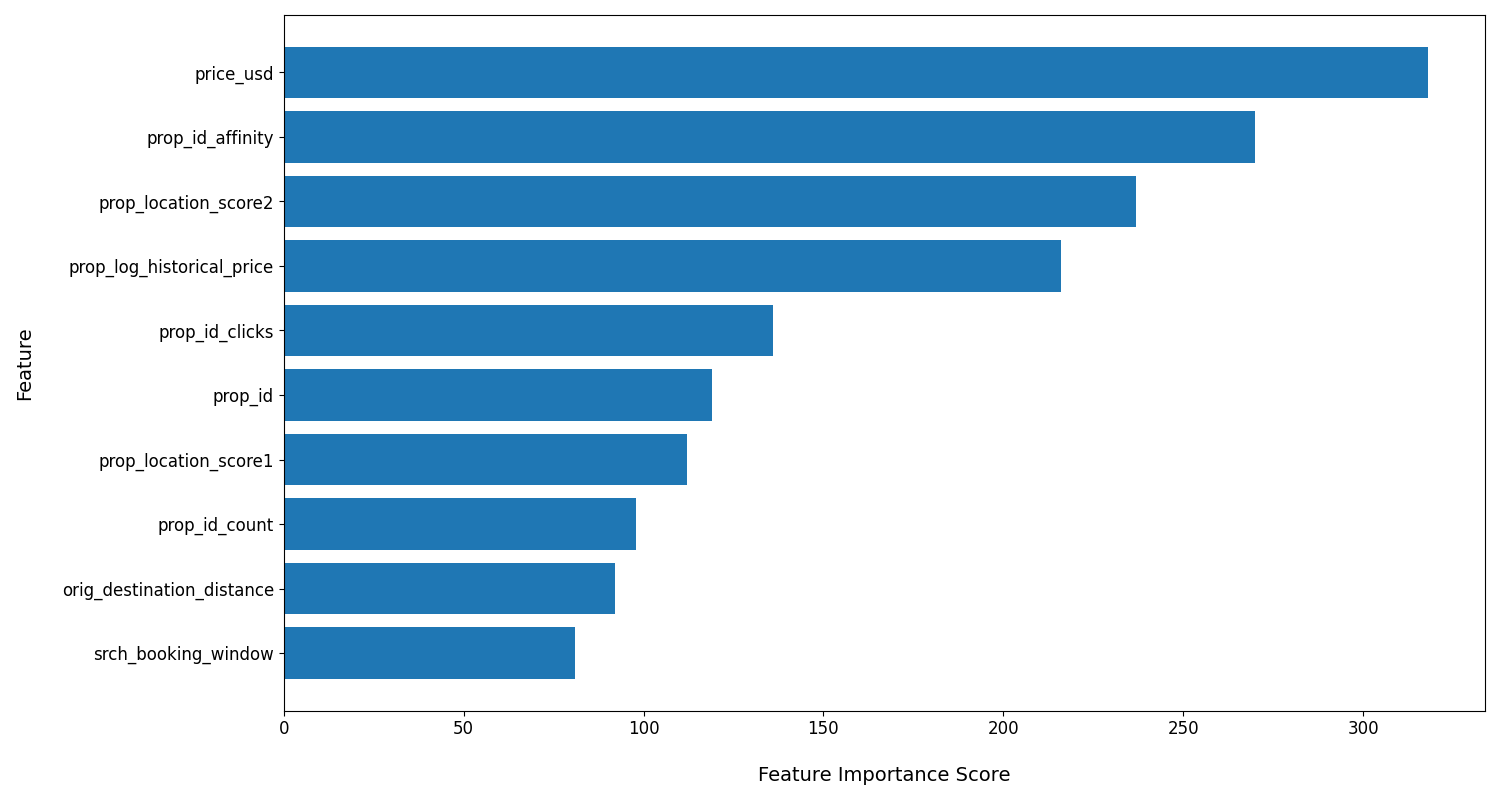
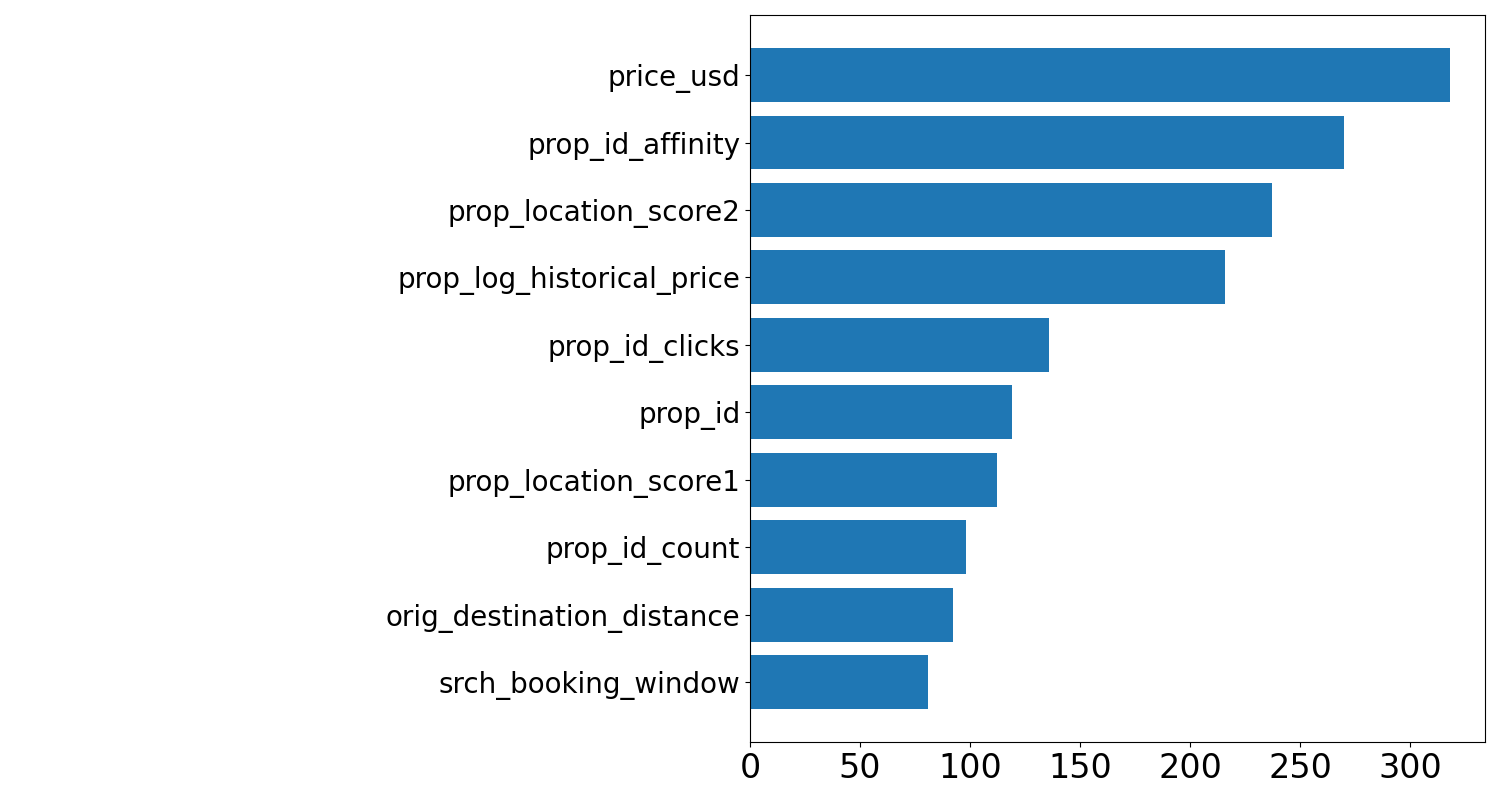
wilcoxon ranked test and final plots

diff --git a/lambda_mart/plot_results.py b/lambda_mart/plot_results.py
@@ -28,26 +28,27 @@ def plot_feature_importance_xgboost_ranker(model: xgb.XGBRanker, model_id: str,
 
     # Plot feature importance
     plt.barh(range(len(top_k_features)), top_k_scores, align='center')
-    plt.yticks(range(len(top_k_features)), top_k_features)
+    plt.yticks(range(len(top_k_features)), top_k_features, fontsize=20)
 
-    plt.xlabel('Feature Importance Score', fontsize=14, labelpad=20)  # Increase font size and set labelpad for x-axis label
-    plt.ylabel('Feature', fontsize=14, labelpad=20)  # Increase font size and set labelpad for y-axis label
-
-    # Increase font size for tick labels
-    plt.xticks(fontsize=12)
-    plt.yticks(fontsize=12)
+    # Increase font size for x-tick labels
+    plt.xticks(fontsize=24)
 
     # Order bars by descending feature score
     plt.gca().invert_yaxis()
 
+    # Adjust layout to ensure all labels are visible
+    plt.tight_layout()
+    plt.subplots_adjust(left=0.5)  # Adjust the left margin to ensure y-axis labels are not cut off
+
+    plt.savefig(os.path.join(save_path, f"feature_importance_{model_id}.png"))
+
     if save_feature_importance:
-        plt.tight_layout()  # Adjust layout to ensure all labels are visible
-        plt.savefig(os.path.join(save_path, f"feature_importance_{model_id}.png"))
         with open(os.path.join(save_path, f"feature_importance_{model_id}.csv"), "w", newline='') as f:
             writer = csv.writer(f)
             writer.writerow(["Feature", "Importance Score"])
             for feature, score in sorted_scores:
                 writer.writerow([feature, score])
+
 
 
 def plot_barchart_positions(positions: list[int], target: str, model_id: str, save_path: str):
@@ -202,16 +203,20 @@ def plot_multiple_bar_charts_position_numbers(position_csv_files: list[str],
     axes[1].set_ylim(0, max_y_value + buffer)
 
     # Configure the first subplot for 'booked'
-    axes[0].set_xlabel('Position', fontsize=12, labelpad=12)
-    axes[0].set_title('Booked Hotels')
+    axes[0].set_xlabel('Position', fontsize=16, labelpad=12)
+    axes[0].set_title('Booked Hotels', fontsize=18)
     axes[0].legend()
     axes[0].grid(True)
 
     # Configure the second subplot for 'clicked'
-    axes[1].set_xlabel('Position', fontsize=12, labelpad=12)
-    axes[1].set_title('Clicked Hotels')
+    axes[1].set_xlabel('Position', fontsize=16, labelpad=12)
+    axes[1].set_title('Clicked Hotels', fontsize=18)
     axes[1].legend()
     axes[1].grid(True)
+
+    # Change font size of the x and y-axis ticks
+    axes[0].tick_params(axis='both', which='major', labelsize=14)
+    axes[1].tick_params(axis='both', which='major', labelsize=14)
 
     # Adjust layout and save the figure
     plt.tight_layout()
@@ -221,14 +226,14 @@ def plot_multiple_bar_charts_position_numbers(position_csv_files: list[str],
 
 
 if __name__=="__main__":
-    best_n_tree = 10
-    best_k = 5
-    train_csv_files = [ "plots/positions_engineer_model.csv", "plots/positions_basic_model.csv", f"plots/positions_n_trees_{best_n_tree}_k_{best_k}.csv"]
-    series_names = ["Engineered LambdaMART", "Basic LambdaMART", "ANNoy"]
-    save_path = "plots"
-    plot_multiple_bar_charts_position_numbers(position_csv_files=train_csv_files, series_names=series_names, save_path=save_path)
+    basic_model_path = r"C:\Users\robbe\PycharmProjects\Data-Mining-2\lambda_mart\model_checkpoints\basic_model.json"
+    engineered_model_path = r"C:\Users\robbe\PycharmProjects\Data-Mining-2\lambda_mart\model_checkpoints\engineer_model.json"
+    engineered_model = xgb.XGBRanker()
+    engineered_model.load_model(engineered_model_path)
+    plot_feature_importance_xgboost_ranker(model=engineered_model, save_path=r"C:\Users\robbe\PycharmProjects\Data-Mining-2\lambda_mart\plots",
+                                           model_id="engineer_model", save_feature_importance=False)
 
-    train_csv_files = [ "validation_scores/training_history_engineer_model.csv", "validation_scores/training_history_basic_model.csv"]
-    series_names = ["Engineered LambdaMART", "Basic LambdaMART" ]
-    save_path = "plots"
-    plot_training_history(train_csv_files=train_csv_files, series_names=series_names, save_path=save_path)
+    basic_model = xgb.XGBRanker()
+    basic_model.load_model(basic_model_path)
+    plot_feature_importance_xgboost_ranker(model=basic_model, save_path=r"C:\Users\robbe\PycharmProjects\Data-Mining-2\lambda_mart\plots",
+                                             model_id="basic_model", save_feature_importance=False)

diff --git a/lambda_mart/wilcoxon_signed_rank_test.py b/lambda_mart/wilcoxon_signed_rank_test.py
@@ -1,0 +1,82 @@
+import os
+import time
+import xgboost as xgb
+from utils.load_data import load_train_val_test_split
+from dotenv import load_dotenv
+from lambda_mart.normalized_discounted_cumulative_gain import ndcg_weighted
+from scipy.stats import wilcoxon
+import gc
+
+load_dotenv()
+
+YOUR_TRAIN_FILE = os.getenv("TRAIN_FILE")
+YOUR_BASIC_TRAIN_FILE = os.getenv("BASIC_TRAIN_FILE")
+
+basic_model_path = r"C:\Users\robbe\PycharmProjects\Data-Mining-2\lambda_mart\model_checkpoints\basic_model.json"
+engineered_model_path =  r"C:\Users\robbe\PycharmProjects\Data-Mining-2\lambda_mart\model_checkpoints\engineer_model.json"
+
+# Timing the engineered set loading and predictions
+print(f"Running predictions on own test set.")
+start_time_engineered = time.time()
+
+_, _, test_data = load_train_val_test_split(YOUR_TRAIN_FILE,
+                                            drop_original_targets=True, seed=420,
+                                            drop_extra_columns=["random_bool"])
+
+X_test_engineered = test_data.drop(columns=["label"])
+
+engineered_model = xgb.XGBRanker()
+engineered_model.load_model(engineered_model_path)
+engineered_scores = engineered_model.predict(X_test_engineered)
+
+end_time_engineered = time.time()
+elapsed_time_engineered = end_time_engineered - start_time_engineered
+print(f"Elapsed time for loading and predicting engineered set: {elapsed_time_engineered} seconds")
+
+del X_test_engineered, engineered_model, test_data
+gc.collect()
+
+# Timing the basic set loading and predictions
+print(f"Loading basic set...")
+start_time_basic = time.time()
+
+_, _, test_data = load_train_val_test_split(YOUR_BASIC_TRAIN_FILE,
+                                            drop_original_targets=True, seed=420)
+y_test = test_data["label"]
+X_test = test_data.drop(columns=["label"])
+
+basic_model = xgb.XGBRanker()
+basic_model.load_model(basic_model_path)
+basic_scores = basic_model.predict(X_test)
+
+end_time_basic = time.time()
+elapsed_time_basic = end_time_basic - start_time_basic
+print(f"Elapsed time for loading and predicting basic set: {elapsed_time_basic} seconds")
+
+del basic_model
+gc.collect()
+
+X_test['basic_score'] = basic_scores
+X_test['engineered_score'] = engineered_scores
+
+# Timing the NDCG calculation and statistical test
+print(f"Calculating NDCGs and performing statistical test...")
+start_time_ndcg = time.time()
+
+basic_ndcgs = []
+engineered_ndcgs = []
+for qid in X_test['qid'].unique():
+    qid_rows = X_test[X_test['qid'] == qid]
+    qid_basic_scores = qid_rows['basic_score']
+    qid_engineered_scores = qid_rows['engineered_score']
+    qid_labels = y_test[qid_rows.index]
+    basic_ndcgs.append(ndcg_weighted(qid_basic_scores, qid_labels))
+    engineered_ndcgs.append(ndcg_weighted(qid_engineered_scores, qid_labels))
+
+stat, p = wilcoxon(basic_ndcgs, engineered_ndcgs)
+
+end_time_ndcg = time.time()
+elapsed_time_ndcg = end_time_ndcg - start_time_ndcg
+print(f"Elapsed time for NDCG calculation and statistical test: {elapsed_time_ndcg} seconds")
+
+print(f"Statistics={stat}, p={p}")

diff --git a/utils/load_data.py b/utils/load_data.py
@@ -41,12 +41,15 @@ def load_train_val_test_split(data_file: str, n_rows: int = None, frac_val: floa
                               frac_test: float = 0.2,
                               drop_original_targets: bool = True,
                               booking_score: int = 5, clicking_score: int = 1,
-                              seed: int = 420) -> tuple[
+                              seed: int = 420, drop_extra_columns: list[str] = None) -> tuple[
     pd.DataFrame, pd.DataFrame, pd.DataFrame]:
     np.random.seed(seed)
     df = load_data(data_file, n_rows=n_rows)
 
-    columns_to_drop = ["date_time", "gross_bookings_usd", "position", "random_bool"]
+    columns_to_drop = ["date_time", "gross_bookings_usd", "position"]
+
+    if drop_extra_columns is not None:
+        columns_to_drop += drop_extra_columns
 
     for column in columns_to_drop:
         if column in df.columns:
